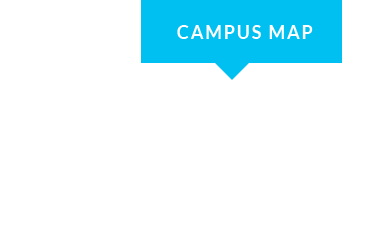
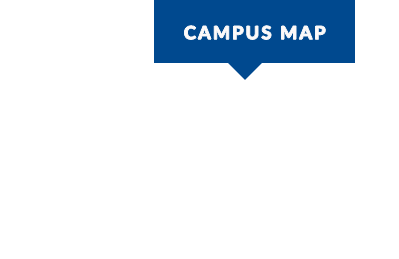
Accessibility compliance updates, National Ranking shield in header.
- Multiple updates to styles for improved Accessibility
- Replaced Campus Map, Tiger Dining and Prospective Students background image
- Added the Nationally Ranked shield to the page header area

Changed region(s): [[0.3558, 0.0, 0.9191, 0.3605]]

diff --git a/web/css/style.css b/web/css/style.css
@@ -1214,16 +1214,18 @@ body { position: relative; margin: 0 auto; color: #000000; font-size: 16px; font
 
 .text--deadline { font-style: italic; font-size: 14px; line-height: 30px; }
 
-a:focus, a:hover, .wrap--home__alumni .box--link:focus, .wrap--home__alumni .box--link__gray:focus, .wrap--home__alumni .box--link:hover, .wrap--home__alumni .box--link__gray:hover, .wrap--home__current-students__top ul a:focus, .wrap--home__current-students__top ul a:hover, .wrap--home__new-perspective__top ul a:focus, .wrap--home__new-perspective__top ul a:hover { color: #00C0F2; }
+a:focus, a:hover, .wrap--home__alumni .box--link:focus, .wrap--home__alumni .box--link__gray:focus, .wrap--home__alumni .box--link:hover, .wrap--home__alumni .box--link__gray:hover, .wrap--home__current-students__top ul a:focus, .wrap--home__new-perspective__top ul a:focus, .wrap--home__new-perspective__top ul a:hover { color: #004891; }
+
+ .wrap--home__current-students__top ul a:hover { color: #cdcdcd; }
 
 a { color: #004891; -webkit-transition: color 0.3s ease; -o-transition: color 0.3s ease; transition: color 0.3s ease; }
-a:focus, a:hover { text-decoration: none; }
+a:focus, a:hover { color: #017eaa; text-decoration: none; }
 a.color-gray { color: #505050; }
 a.color-gray:focus, a.color-gray:hover { color: #004891; }
 
 h1, .h1 { margin-bottom: 34px; color: #004891; font-weight: 400; font-size: 24px; line-height: 38px; }
 
-h2, .h2 { margin: 30px 0; color: #004891; text-transform: uppercase; letter-spacing: 0.14em; font-weight: 900; font-size: 18px; line-height: 20px; }
+h2, .h2 { margin: 30px 0; color: #004891; letter-spacing: 0.14em; font-weight: 900; font-size: 18px; line-height: 20px; }
 
 h3, .h3 { margin: 24px 0; color: #333333; font-weight: 700; font-size: 18px; }
 
@@ -1316,17 +1318,17 @@ nav ul li a { display: block; }
 .img--border { border: 1px solid #E0E0E0; }
 .img--callout { position: relative; display: inline-block; overflow: hidden; }
 .img--callout__banner, .img--callout__stripes { max-height: 80px; height: 80px; }
-.img--callout__banner { position: absolute; right: 0; bottom: 0; display: block; margin-left: 35px; padding: 0 16px; background-color: #00C0F2; background-color: rgba(0, 192, 242, 0.76); color: #FFFFFF; text-align: right; text-transform: uppercase; letter-spacing: 0.100em; font-weight: 900; font-size: 18px; line-height: 80px; }
-.img--callout__banner:before { position: absolute; left: -35px; width: 0; height: 0; border-bottom: 80px solid #00C0F2; border-bottom-color: rgba(0, 192, 242, 0.76); border-left: 35px solid transparent; content: ''; -moz-transform: scale(0.9999); }
+.img--callout__banner { position: absolute; right: 0; bottom: 0; display: block; margin-left: 35px; padding: 0 16px; background-color: #004891; background-color: rgba(7, 78, 148, 0.76); color: #FFFFFF; text-align: right; text-transform: uppercase; letter-spacing: 0.100em; font-weight: 900; font-size: 18px; line-height: 80px; }
+.img--callout__banner:before { position: absolute; left: -35px; width: 0; height: 0; border-bottom: 80px solid #004891; border-bottom-color: rgba(7, 78, 148, 0.76); border-left: 35px solid transparent; content: ''; -moz-transform: scale(0.9999); }
 .img--callout__stripes { position: absolute; bottom: 20px; width: 100%; height: 100%; background: url(../img/sidebar-stripes.png) no-repeat right 0; }
 
 .button--icon { position: relative; display: block; padding: 22px 0 15px 70px; min-height: 68px; width: 100%; background-color: #0C345D; color: #FFFFFF; text-transform: uppercase; letter-spacing: 0.100em; font-weight: 700; -webkit-transition: all 0.3s ease; -o-transition: all 0.3s ease; transition: all 0.3s ease; }
-.button--icon:focus, .button--icon:hover { background-color: #17C5F2; color: #FFFFFF; }
+.button--icon:focus, .button--icon:hover { background-color: #9a9a9a; color: #FFFFFF; }
 .button--icon i { position: absolute; top: 15px; left: 18px; font-size: 36px; }
 .button--large { display: block; float: left; margin-bottom: 50px; padding: 16px 6px 12px 6px; width: 100%; background-color: #F1F1F1; color: #4B4B4B; font-weight: 900; letter-spacing: 0.100em; line-height: 32px; text-align: center; text-transform: uppercase; -webkit-transition: all 0.3s ease; -o-transition: all 0.3s ease; transition: all 0.3s ease; }
 .button--large i { vertical-align: middle; padding-right: 20px; font-size: 40px; }
 .button--large:active { position: relative; top: 1px; }
-.button--large:focus, .button--large:hover { background-color: #00C0F2; color: #FFFFFF; }
+.button--large:focus, .button--large:hover { background-color: #004891; color: #FFFFFF; }
 
 .video--layout { position: relative; overflow: hidden; }
 .video--layout a { position: relative; display: block; }
@@ -1355,7 +1357,7 @@ header nav > ul > li:focus > a, header nav > ul > li:hover > a, header nav > ul 
 .header--bg2 { position: relative; height: 100%; }
 .header--bg3 { position: relative; height: 100%; background-color: #FFFFFF; }
 .header--bg__behind { position: absolute; bottom: 0; width: 100%; height: 85%; background-color: #D9D9D9; background-color: rgba(217, 217, 217, 0.92); }
-.header--alert { width: 100%; background-color: #00C0F2; color: #FFFFFF; text-transform: uppercase; letter-spacing: 0.125em; font-weight: 900; }
+.header--alert { width: 100%; background-color: #004891; color: #FFFFFF; text-transform: uppercase; letter-spacing: 0.125em; font-weight: 900; }
 .header--alert__yellow { background-color: #FFFF00; color: #FF0000; }
 .header--alert__red { background-color: #FF0000; }
 .header--alert__wrapper { padding: 8px 0 20px; width: 100%; }
@@ -1394,7 +1396,6 @@ header nav > ul > li:focus > a, header nav > ul > li:hover > a, header nav > ul 
 .header--bottom nav > ul > li > ul { display: none; float: left; padding: 10px 10px 20px 60px; width: 100%; border-bottom: 2px solid #FFFFFF; }
 .header--bottom nav > ul > li > ul li a { display: block; padding: 10px 0; }
 .header--search { position: absolute; top: 0; left: 0; float: left; margin: 10px 0 0 25px; padding: 10px 16px; width: 70%; border: 3px solid #FFFFFF; border-radius: 2px; background-color: #0B4782; background-color: rgba(11, 71, 130, 0.9); color: #F8FBFE; }
-.header--search:before { margin-right: 14px; content: "\f002"; font-size: 16px; font-family: 'FontAwesome'; }
 .header--search a { display: none; }
 .header--search input[type="search"] { margin: 0; padding: 3px 0; width: 80%; outline: 0; border: 0; background: transparent; color: #F8FBFE; font-weight: 700; font-size: 17px; }
 .header--search input[type="search"]::-moz-placeholder { color: #F8FBFE; opacity: 1; }
@@ -1454,11 +1455,11 @@ header nav > ul > li:focus > a, header nav > ul > li:hover > a, header nav > ul 
 .slideshow--slider img { width: 100%; }
 .slideshow--slider__slide { position: relative; display: none; opacity: 0; filter: alpha(opacity=0); width: 100%; }
 .slideshow--slider__slide:first-child { opacity: 1; filter: alpha(opacity=100); display: block; }
-.slideshow--slider__pager { position: absolute; bottom: 0; z-index: 200; width: 100%; height: 40px; background: url(../img/slider-stripes.gif) repeat 0 0; color: #80E0F9; text-align: right; font-size: 32px; line-height: 40px; }
-.slideshow--slider__pager__wrapper { position: relative; float: right; padding: 0 8px 0 5px; height: 40px; background-color: #00C0F2; }
+.slideshow--slider__pager { position: absolute; bottom: 0; z-index: 200; width: 100%; height: 40px; background: url(../img/slider-stripes.gif) repeat 0 0; color: #A5A4A4; text-align: right; font-size: 32px; line-height: 40px; }
+.slideshow--slider__pager__wrapper { position: relative; float: right; padding: 0 8px 0 5px; height: 40px; background-color: #004891; }
 .slideshow--slider__pager__wrapper:before, .slideshow--slider__pager__wrapper:after { position: absolute; height: 0; content: ''; -moz-transform: scale(0.9999); }
 .slideshow--slider__pager__wrapper:before { left: -23px; z-index: -1; width: 50px; border-right: 19px solid transparent; border-bottom: 40px solid transparent; border-left: 19px solid transparent; }
-.slideshow--slider__pager__wrapper:after { left: -19px; width: 0; border-bottom: 40px solid #00C0F2; border-left: 19px solid transparent; }
+.slideshow--slider__pager__wrapper:after { left: -19px; width: 0; border-bottom: 40px solid #004891; border-left: 19px solid transparent; }
 .slideshow--slider__pager__wrapper span { padding: 0 20px; cursor: pointer; }
 .slideshow--slider__pager__wrapper span.slideshow--slider__pager__active { color: #FFFFFF; cursor: default; }
 .slideshow--overlay { position: absolute; top: 0; right: 0; bottom: 0; left: 0; z-index: 150; background: -moz-linear-gradient(top, transparent 25%, black 100%); /* FF3.6+ */ background: -webkit-gradient(linear, left top, left bottom, color-stop(25%, transparent), color-stop(100%, black)); /* Chrome,Safari4+ */ background: -webkit-linear-gradient(top, transparent 25%, black 100%); /* Chrome10+,Safari5.1+ */ background: -o-linear-gradient(top, transparent 25%, black 100%); /* Opera 11.10+ */ background: -ms-linear-gradient(top, transparent 25%, black 100%); /* IE10+ */ background: linear-gradient(to bottom, transparent 25%, black 100%); /* W3C */ filter: progid:DXImageTransform.Microsoft.gradient( startColorstr='#00000000', endColorstr='#000000',GradientType=0 ); /* IE6-9 */ }
@@ -1478,8 +1479,8 @@ header nav > ul > li:focus > a, header nav > ul > li:hover > a, header nav > ul 
 .slideshow-page--slider__pager__text { bottom: -50px !important; color: #B4B4B4; color: rgba(180, 180, 180, 0.3); font-size: 32px; }
 .slideshow-page--slider__pager__text .slideshow-page--slider__pager__wrapper span.slideshow-page--slider__pager__active { color: #B4B4B4; }
 .slideshow-page--overlay { position: absolute; top: 0; right: 0; bottom: 0; left: 0; overflow: hidden; z-index: 150; background: -moz-linear-gradient(top, transparent 60%, rgba(0, 0, 0, 0.8) 100%); /* FF3.6+ */ background: -webkit-gradient(linear, left top, left bottom, color-stop(60%, transparent), color-stop(100%, rgba(0, 0, 0, 0.8))); /* Chrome,Safari4+ */ background: -webkit-linear-gradient(top, transparent 60%, rgba(0, 0, 0, 0.8) 100%); /* Chrome10+,Safari5.1+ */ background: -o-linear-gradient(top, transparent 60%, rgba(0, 0, 0, 0.8) 100%); /* Opera 11.10+ */ background: -ms-linear-gradient(top, transparent 60%, rgba(0, 0, 0, 0.8) 100%); /* IE10+ */ background: linear-gradient(to bottom, transparent 60%, rgba(0, 0, 0, 0.8) 100%); /* W3C */ filter: progid:DXImageTransform.Microsoft.gradient( startColorstr='#00000000', endColorstr='#cc000000',GradientType=0 ); /* IE6-9 */ }
-.slideshow-page--overlay__wrapper { position: absolute; bottom: 0; width: 100%; padding: 10px 20px; background-color: #00C0F2; background-color: rgba(0, 192, 242, 0.76); }
-.slideshow-page--overlay__wrapper:before { position: absolute; top: 0; right: -110px; width: 0; height: 0; border-bottom: 230px solid #00C0F2; border-bottom-color: rgba(0, 192, 242, 0.76); border-right: 110px solid transparent; content: ''; -moz-transform: scale(0.9999); }
+.slideshow-page--overlay__wrapper { position: absolute; bottom: 0; width: 100%; padding: 10px 20px; background-color: #004891; background-color: rgba(7, 78, 148, 0.76); }
+.slideshow-page--overlay__wrapper:before { position: absolute; top: 0; right: -110px; width: 0; height: 0; border-bottom: 230px solid #004891; border-bottom-color: rgba(7, 78, 148, 0.76); border-right: 110px solid transparent; content: ''; -moz-transform: scale(0.9999); }
 .slideshow-page--overlay a { display: block; position: absolute; top: 0; right: 0; bottom: 0; left: 0; color: #FFFFFF; }
 .slideshow-page--overlay__title { margin-bottom: 4px; font-size: 16px; font-weight: 900; letter-spacing: 0.050em; text-transform: uppercase; }
 .slideshow-page--overlay__desc { font-size: 14px; line-height: 18px; }
@@ -1497,7 +1498,8 @@ header nav > ul > li:focus > a, header nav > ul > li:hover > a, header nav > ul 
 .breadcrumb { float: left; margin: 20px 0; width: 100%; }
 .breadcrumb ul { margin: 0; padding: 0; list-style: none; font-size: 14px; }
 .breadcrumb ul li { float: left; color: #3F3F3F; }
-.breadcrumb ul li a { margin-right: 5px; color: #959494; }
+/* .breadcrumb ul li a { margin-right: 5px; color: #959494; } */
+.breadcrumb ul li a { margin-right: 5px; color: #757575; }
 .breadcrumb ul li a:after { padding-left: 5px; content: '>'; }
 
 .top--links { margin: 0; padding: 10px 0; list-style: none; text-align: center; }
@@ -1532,7 +1534,7 @@ header nav > ul > li:focus > a, header nav > ul > li:hover > a, header nav > ul 
 .type--alumni__switcher__images { position: relative; height: 0; padding-bottom: 100%; }
 .type--alumni__switcher__images img { max-width: 100%; }
 .type--alumni__switcher__image { display: none; opacity: 0; }
-.type--alumni__switcher__pager { position: absolute; bottom: 25%; left: 0; right: 0; width: 100%; color: #00C0F2; text-align: center; }
+.type--alumni__switcher__pager { position: absolute; bottom: 25%; left: 0; right: 0; width: 100%; color: #004891; text-align: center; }
 .type--alumni__switcher__prev, .type--alumni__switcher__next { display: inline-block; margin: 0 50px; font-size: 42px; cursor: pointer; }
 .type--alumni__group1 { padding: 60px 0; }
 .type--alumni__form { border: 1px solid #E0E0E0; }
@@ -1545,9 +1547,9 @@ header nav > ul > li:focus > a, header nav > ul > li:hover > a, header nav > ul 
 .type--alumni__form input[type=text]::-moz-placeholder, .type--alumni__form input[type=email]::-moz-placeholder { color: #231F20; }
 .type--alumni__form input[type=text]:-ms-input-placeholder, .type--alumni__form input[type=email]:-ms-input-placeholder { color: #231F20; }
 .type--alumni__form button { border: 0; margin: 12px 0; padding: 16px 42px; background-color: #004891; color: #FFFFFF; font-weight: 700; letter-spacing: 0.100em; line-height: 1; text-align: center; text-transform: uppercase; -webkit-transition: all 0.3s ease; -o-transition: all 0.3s ease; transition: all 0.3s ease; }
-.type--alumni__form button:focus, .type--alumni__form button:hover { background-color: #00C0F2; }
+.type--alumni__form button:focus, .type--alumni__form button:hover { background-color: #004891; }
 .type--alumni__form__click { display: block; padding: 30px; color: #004891; font-size: 22px; font-weight: 700; line-height: 36px; cursor: pointer; -webkit-transition: all 0.3s ease; -o-transition: all 0.3s ease; transition: all 0.3s ease; }
-.type--alumni__form__click:focus, .type--alumni__form__click:hover { background-color: #00C0F2; color: #FFFFFF; }
+.type--alumni__form__click:focus, .type--alumni__form__click:hover { background-color: #004891; color: #FFFFFF; }
 .type--alumni__form__click i { float: left; margin-bottom: 50px; margin-right: 20px; font-size: 36px; }
 .type--alumni__form__show { padding: 0 11.494252873563% 12px; }
 .type--alumni__events h3, .type--alumni__news h3 { margin-bottom: 40px; color: #004891; font-size: 24px; font-weight: 900; letter-spacing: 0.100em; text-transform: uppercase; }
@@ -1561,16 +1563,16 @@ header nav > ul > li:focus > a, header nav > ul > li:hover > a, header nav > ul 
 .type--alumni__events__event__title { display: block; font-size: 18px; font-weight: 700; line-height: 24px; }
 .type--alumni__events__event__time { font-size: 16px; }
 .type--alumni__news a { position: relative; padding-left: 26px; display: block; margin-bottom: 25px; color: #6D6D6D; font-size: 22px; line-height: 28px; }
-.type--alumni__news a:focus, .type--alumni__news a:hover { color: #00C0F2; }
-.type--alumni__news a i { position: absolute; top: 3px; left: 0; color: #00C0F2; margin-right: 6px; }
+.type--alumni__news a:focus, .type--alumni__news a:hover { color: #004891; }
+.type--alumni__news a i { position: absolute; top: 3px; left: 0; color: #004891; margin-right: 6px; }
 .type--alumni__view-all { float: left; width: 100%; border-top: 4px solid #F3F3F3; }
 .type--alumni__view-all a { display: block; padding-top: 6px; color: #A9A9A9; font-size: 16px; font-weight: 900; letter-spacing: 0.100em; text-align: right; text-transform: uppercase; }
-.type--alumni__view-all a:focus, .type--alumni__view-all a:hover { color: #00C0F2; }
+.type--alumni__view-all a:focus, .type--alumni__view-all a:hover { color: #004891; }
 .type--alumni__group2 { margin-top: 50px; }
 .type--alumni__umma-online, .type--alumni__benefits-services, .type--alumni__umma-partners { margin-bottom: 50px; }
 .type--alumni__umma-online .sidebar--socialmedia { padding: 0; }
 .type--alumni__umma-online .icon--socialmedia a { font-size: 32px; }
-.type--alumni__umma-online .icon--socialmedia a:focus, .type--alumni__umma-online .icon--socialmedia a:hover { background-color: #00C0F2 !important; }
+.type--alumni__umma-online .icon--socialmedia a:focus, .type--alumni__umma-online .icon--socialmedia a:hover { background-color: #004891 !important; }
 .type--alumni__umma-online .icon--socialmedia__youtube:before, .type--alumni__umma-online .icon--socialmedia__youtube__color:before { content: "\f167"; }
 .type--alumni__benefits-services h3 { margin: 0 0 5px 0; color: #004891; }
 .type--alumni__benefits-services i { font-size: 55px; }
@@ -1585,7 +1587,7 @@ header nav > ul > li:focus > a, header nav > ul > li:hover > a, header nav > ul 
 .type--alumni__get-connected { padding: 40px 0 0; color: #FFFFFF; }
 .type--alumni__get-connected a, .type--alumni__get-connected p, .type--alumni__get-connected .h1 { color: #FFFFFF; }
 .type--alumni__get-connected a { font-weight: 900; letter-spacing: 0.100em; text-transform: uppercase; }
-.type--alumni__get-connected a:focus, .type--alumni__get-connected a:hover { color: #00C0F2; }
+.type--alumni__get-connected a:focus, .type--alumni__get-connected a:hover { color: #004891; }
 .type--alumni__get-connected .h1 { font-size: 44px; font-style: italic; font-weight: 700; line-height: 48px; }
 .type--alumni__get-connected .box--transparent { margin-top: 50px; }
 .type--alumni__get-connected .box--transparent a:focus, .type--alumni__get-connected .box--transparent a:hover, .type--alumni__get-connected .box--transparent__wrap:focus, .type--alumni__get-connected .box--transparent__wrap:hover { background-color: #004891; background-color: rgba(0, 72, 145, 0.5); color: #FFFFFF; }
@@ -1616,7 +1618,7 @@ header nav > ul > li:focus > a, header nav > ul > li:hover > a, header nav > ul 
 .type--alumni-subpage .sidebar--box .type--alumni__form__click i { margin-bottom: 20px; margin-right: 10px; font-size: 24px; line-height: 20px; }
 .type--alumni-subpage .sidebar--socialmedia { padding: 20px 40px; }
 .type--alumni-subpage .sidebar--socialmedia a { padding: 10px 0; }
-.type--alumni-subpage .sidebar--socialmedia a:focus, .type--alumni-subpage .sidebar--socialmedia a:hover { background-color: #00C0F2 !important; }
+.type--alumni-subpage .sidebar--socialmedia a:focus, .type--alumni-subpage .sidebar--socialmedia a:hover { background-color: #004891 !important; }
 .type--page { color: #4C4C4C; }
 .type--page h1, .type--page .h1 { display: inline-block; padding-bottom: 10px; border-bottom: 4px solid #F0F0F0; }
 .type--page .cover { padding-bottom: 40px; background-color: #232E3A; background-image: url(../img/bg-tiger.jpg); }
@@ -1687,23 +1689,26 @@ ul.select-style2-selectBox-dropdown-menu a { background: none; color: #231F20; p
 .box--transparent { float: left; margin-bottom: 50px; width: 100%; border: 1px solid #FFFFFF; color: #FFFFFF; font-size: 16px; }
 .box--transparent ul li { float: left; width: 100%; }
 .box--transparent a, .box--transparent__wrap { display: block; float: left; padding: 20px 10px 17px; width: 100%; border: 1px solid #FFFFFF; background-color: transparent; color: #FFFFFF; line-height: 30px; -webkit-transition: all 0.3s ease; -o-transition: all 0.3s ease; transition: all 0.3s ease; }
-.box--transparent a:focus, .box--transparent a:hover, .box--transparent__wrap:focus, .box--transparent__wrap:hover { background-color: #00C0F2; background-color: rgba(0, 192, 242, 0.71); }
+.box--transparent a:focus, .box--transparent a:hover, .box--transparent__wrap:focus, .box--transparent__wrap:hover { background-color: #004891; background-color: rgba(7, 78, 148, 0.71); }
 .box--transparent a i, .box--transparent__wrap i { float: left; padding: 0 12.0689655172% 0 5.1724137931%; font-size: 32px; }
+
+.box--transparent a { font-weight: bold; }
 
 .box--transparent__title { padding: 14px 0; border: 1px solid #FFFFFF; background-color: #004891; background-color: rgba(254, 254, 254, 0.3); text-align: center; text-transform: uppercase; letter-spacing: .1em; font-weight: 700; }
 
 .wrap--home .container { position: relative; }
 .wrap--home .col { margin-top: 40px; }
 .wrap--home .h1 { display: block; margin-top: 0; margin-bottom: 50px; padding-bottom: 10px; border-bottom: 4px solid #F0F0F0; color: #004891; font-size: 30px; line-height: 36px; }
-.wrap--home .h1--sub { display: block; color: #929292; text-transform: uppercase; letter-spacing: 0.1em; font-size: 14px; }
+.wrap--home .h1--sub { display: block; color: #929292; text-transform: uppercase; letter-spacing: 0.1em; font-size: 16px; font-weight: bold; }
 .wrap--home .h1--title { display: inline-block; width: 85%; }
 .wrap--home .h1--white { border-bottom-color: #929292; color: #FFFFFF; text-shadow: 3px 4px 10px rgba(7, 8, 8, 0.75); }
 .wrap--home .h1 .icon--circle { display: inline-block; float: right; width: 31px; height: 31px; border-radius: 31px; background-color: #004891; color: #FFFFFF; text-align: center; font-size: 18px; line-height: 1.7; cursor: pointer; }
+
 .wrap--home__alumni .box p { color: #FFFFFF; }
 .wrap--home__alumni .box--link, .wrap--home__alumni .box--link__gray { color: #FFFFFF; }
 .wrap--home__no-height { min-height: 0 !important; }
 .wrap--home__current-students__top { position: relative; }
-.wrap--home__current-students__top ul { position: absolute; top: 0; right: 0; padding: 15px 30px; background-color: #004891; background-color: rgba(29, 33, 37, 0.38); }
+.wrap--home__current-students__top ul { position: absolute; top: 0; right: 0; padding: 15px 30px; background-color: #004891; background-color: rgba(7, 78, 148, 0.71); }
 .wrap--home__current-students__top ul a, .wrap--home__current-students__top ul li { color: #FFFFFF; }
 .wrap--home__current-students__top ul li { float: left; }
 .wrap--home__current-students__top ul li + li:before { padding: 0 20px; content: "|"; }
@@ -1730,7 +1735,7 @@ ul.select-style2-selectBox-dropdown-menu a { background: none; color: #231F20; p
 .wrap--home__experience-memphis img { max-width: 100%; }
 .wrap--home__experience-memphis .box { margin-top: 24px; }
 .wrap--home__experience-memphis .box .box--title .box--link, .wrap--home__experience-memphis .box .box--title .box--link__gray, .wrap--home__experience-memphis .box p { color: #4C4C4C; }
-.wrap--home__experience-memphis .box .box--title .box--link:focus, .wrap--home__experience-memphis .box .box--title .box--link__gray:focus, .wrap--home__experience-memphis .box .box--title .box--link:hover, .wrap--home__experience-memphis .box .box--title .box--link__gray:hover { color: #00C0F2; }
+.wrap--home__experience-memphis .box .box--title .box--link:focus, .wrap--home__experience-memphis .box .box--title .box--link__gray:focus, .wrap--home__experience-memphis .box .box--title .box--link:hover, .wrap--home__experience-memphis .box .box--title .box--link__gray:hover { color: #004891; }
 .wrap--home__hotline { padding: 20px 0; border-width: 1px 0; border-style: solid; border-color: #DADADA; background-color: #F4F4F4; color: #505050; font-size: 15px; }
 .wrap--home__hotline ul li { float: left; padding: 0 10px; }
 .wrap--home__hotline ul li:first-child { padding-left: 0; }
@@ -1753,7 +1758,7 @@ ul.select-style2-selectBox-dropdown-menu a { background: none; color: #231F20; p
 .sidebar--news__bottom .sidebar--news__title__wrapper { padding: 0; }
 .sidebar--news__bottom a { display: inline-block; padding: 0 22px; width: 100%; height: 64px; color: #FFFFFF; line-height: 64px; -webkit-transition: all 0.3s ease-in-out; -o-transition: all 0.3s ease-in-out; transition: all 0.3s ease-in-out; }
 .sidebar--news__bottom a i { margin-left: 16px; font-size: 22px; }
-.sidebar--news__bottom a:focus, .sidebar--news__bottom a:hover { background-color: #00C0F2; }
+.sidebar--news__bottom a:focus, .sidebar--news__bottom a:hover { background-color: #004891; }
 
 .sidebar--news__boxes { background-color: #FFFFFF; }
 
@@ -1766,7 +1771,7 @@ ul.select-style2-selectBox-dropdown-menu a { background: none; color: #231F20; p
 
 .sidebar--news__box__right { float: left; margin-left: 5.8823529412%; width: 54.7058823529%; }
 
-.sidebar--news__box__date { color: #979797; font-weight: 900; font-size: 14px; }
+.sidebar--news__box__date { color: #004891; font-size: 14px; font-style: italic; }
 
 .sidebar--news__box__content { margin-top: 5px; color: #004891; font-weight: 700; line-height: 1.5em; }
 .sidebar--news__box__content a { display: block; }
@@ -1789,12 +1794,12 @@ ul.select-style2-selectBox-dropdown-menu a { background: none; color: #231F20; p
 .masonry .item--layer__wrap, .masonry .item--layer__second__wrap { display: table; margin: auto; width: 94%; height: 100%; }
 .masonry .item--layer__wrap__center, .masonry .item--layer__second__wrap__center { display: table-cell; overflow: hidden; padding: 5px 0; vertical-align: middle; }
 .masonry .item--layer__wrap span, .masonry .item--layer__second__wrap span { text-transform: uppercase; letter-spacing: 0.100em; font-weight: 900; }
-.masonry .item--layer.focus, .masonry .item--layer:hover { background-color: #00C0F2; background-color: rgba(0, 192, 242, 0.8); }
+.masonry .item--layer.focus, .masonry .item--layer:hover { background-color: #004891; background-color: rgba(7, 78, 148, 0.8); }
 .masonry .item--layer.focus .item--layer__wrap__center > span, .masonry .item--layer:hover .item--layer__wrap__center > span { border: 1px solid #FFFFFF; }
 .masonry .item--layer a { position: absolute; top: 0; right: 0; bottom: 0; left: 0; }
 .masonry .item--layer__gray { color: #4B4B4B; cursor: pointer; }
 .masonry .item--layer__gray.focus, .masonry .item--layer__gray:hover { color: #FFFFFF; background-color: transparent; }
-.masonry .item--layer__gray.focus .item--layer__content, .masonry .item--layer__gray:hover .item--layer__content { background-color: #00C0F2; background-color: rgba(0, 192, 242, 0.8); }
+.masonry .item--layer__gray.focus .item--layer__content, .masonry .item--layer__gray:hover .item--layer__content { background-color: #004891; background-color: rgba(7, 78, 148, 0.8); }
 .masonry .item--layer__gray .item--layer__content { margin: 0 1px 1px 0; background-color: #F1F1F1; height: 100%; }
 .masonry .item--layer__gray .item--layer__wrap { width: 81%; }
 .masonry .item--layer__gray__link, .masonry .item--layer__link { overflow: hidden; text-indent: 100%; white-space: nowrap; }
@@ -1804,7 +1809,7 @@ ul.select-style2-selectBox-dropdown-menu a { background: none; color: #231F20; p
 .masonry .item--layer__wrap span > span { padding: 4px 0 0 0; font-style: italic; font-weight: 400; text-transform: none; letter-spacing: 0.25px; }
 .masonry .item--layer__readmore { display: inline-block; color: #FFFFFF; text-transform: uppercase; letter-spacing: 0.100em; font-weight: 700; }
 .masonry .item--layer__readmore i { margin-left: 4px; font-size: 22px; }
-.masonry .item--layer__readmore:focus, .masonry .item--layer__readmore:hover { color: #00C0F2; }
+.masonry .item--layer__readmore:focus, .masonry .item--layer__readmore:hover { color: #004891; }
 .masonry .item--layer__second { z-index: 700; height: 205%; background-color: #004891; background-color: rgba(0, 72, 145, 0.9); }
 .masonry .item--layer__second.visuallyhidden { background-color: transparent; }
 .masonry .item--layer__second__wrap { height: 90%; }
@@ -1844,7 +1849,7 @@ ul.select-style2-selectBox-dropdown-menu a { background: none; color: #231F20; p
 .content--body__header img { border: 1px solid #E0E0E0; }
 .content--body__header__button { position: absolute; top: 50%; }
 .content--body__header__button a { position: relative; display: block; margin-top: -24px; padding: 12px 0 14px 40px; max-height: 48px; width: 100%; border: 1px solid #FFFFFF; background-color: #000000; background-color: rgba(0, 0, 0, 0.6); color: #FFFFFF; vertical-align: top; text-align: center; text-transform: uppercase; font-weight: 700; font-size: 14px; -webkit-transition: all 0.3s ease; -o-transition: all 0.3s ease; transition: all 0.3s ease; }
-.content--body__header__button a:focus, .content--body__header__button a:hover { background-color: #00C0F2; }
+.content--body__header__button a:focus, .content--body__header__button a:hover { background-color: #004891; }
 .content--body__header__button a i { position: absolute; left: 15px; font-size: 24px; }
 .content--sidebar .boxes--border { margin-bottom: 50px; }
 .content--sidebar .box { margin-bottom: 16px; }
@@ -1880,7 +1885,7 @@ ul.select-style2-selectBox-dropdown-menu a { background: none; color: #231F20; p
 .sidebar--box .button--icon { margin-bottom: 50px; }
 .sidebar--socialmedia { padding: 20px 20px; }
 .sidebar--socialmedia a { margin: 10px 0; padding: 10px 0; width: 100%; color: #585858; -webkit-transition: all 0.3s ease; -o-transition: all 0.3s ease; transition: all 0.3s ease; }
-.sidebar--socialmedia a:focus, .sidebar--socialmedia a:hover { background-color: #00C0F2; color: #FFFFFF; }
+.sidebar--socialmedia a:focus, .sidebar--socialmedia a:hover { background-color: #004891; color: #FFFFFF; }
 .sidebar--socialmedia a.icon--socialmedia__facebook:focus, .sidebar--socialmedia a.icon--socialmedia__facebook:hover { background-color: #3B5998; }
 .sidebar--socialmedia a.icon--socialmedia__flickr:focus, .sidebar--socialmedia a.icon--socialmedia__flickr:hover { background-color: #FF0084; }
 .sidebar--socialmedia a.icon--socialmedia__google-plus:focus, .sidebar--socialmedia a.icon--socialmedia__google-plus:hover { background-color: #DD4B39; }
@@ -2084,14 +2089,14 @@ footer { border-top: 1px solid #C4C5C2; }
   .header--bottom nav > ul > li > ul li a { padding: 10px 0; text-align: left; }
   .header--bottom nav > ul > li > ul li:focus a, .header--bottom nav > ul > li > ul li:hover a, .header--bottom nav > ul > li > ul li.selected a { color: #00498F; font-weight: 700; }
   .header--search { position: relative; float: left; width: 110px; border: 0; border-radius: 0; margin: 0; padding: 15px 0 0 6px; background-color: transparent; font-size: 14px; }
-  .header--search:focus, .header--search:hover { background-color: #00C0F2; }
+  .header--search:focus, .header--search:hover { background-color: #004891; }
   .header--search:focus a, .header--search:hover a { display: block; }
   .header--search:focus input[type="search"], .header--search:hover input[type="search"] { background-color: #66D9F7; }
   .header--search:focus input[type="search"]::-moz-placeholder, .header--search:hover input[type="search"]::-moz-placeholder { color: #FFFFFF; opacity: 1; }
   .header--search:focus input[type="search"]:-ms-input-placeholder, .header--search:hover input[type="search"]:-ms-input-placeholder { color: #FFFFFF; }
   .header--search:focus input[type="search"]::-webkit-input-placeholder, .header--search:hover input[type="search"]::-webkit-input-placeholder { color: #FFFFFF; }
-  .header--search:before { position: absolute; right: 5px; margin-right: 0; }
   .header--search a { padding: 13px 0; }
+  .header--search button { border: none; background: transparent; color: #fff; }
   .header--search input[type="search"] { width: 78%; font-size: 14px; padding: 3px 5px; }
   .header--search input[type="search"]::-moz-placeholder { color: #F8FBFE; opacity: 1; }
   .header--search input[type="search"]:-ms-input-placeholder { color: #F8FBFE; }
@@ -2143,7 +2148,6 @@ footer { border-top: 1px solid #C4C5C2; }
   .header--top { top: -31px; }
   .header--top nav a { padding: 0 12px; }
   .header--search { padding: 15px 0 0 10px; width: 153px; }
-  .header--search:before { right: 11px; }
   .header--search input[type="search"] { width: 75%; padding: 3px 14px; }
   .header--bottom nav { margin-right: 16px; }
   .header--box__text a { padding: 0 20px; }
@@ -6657,3 +6661,7 @@ footer { border-top: 1px solid #C4C5C2; }
   .table { line-height: 1; } }
 
 /*# sourceMappingURL=style.css.map */
+
+#disclaimer { color: #fff; }
+#disclaimer a { border-bottom: 1px dotted; }
+.header-ranked-shield { display: inline-block; margin-left: 12px; max-width: 64px; }
